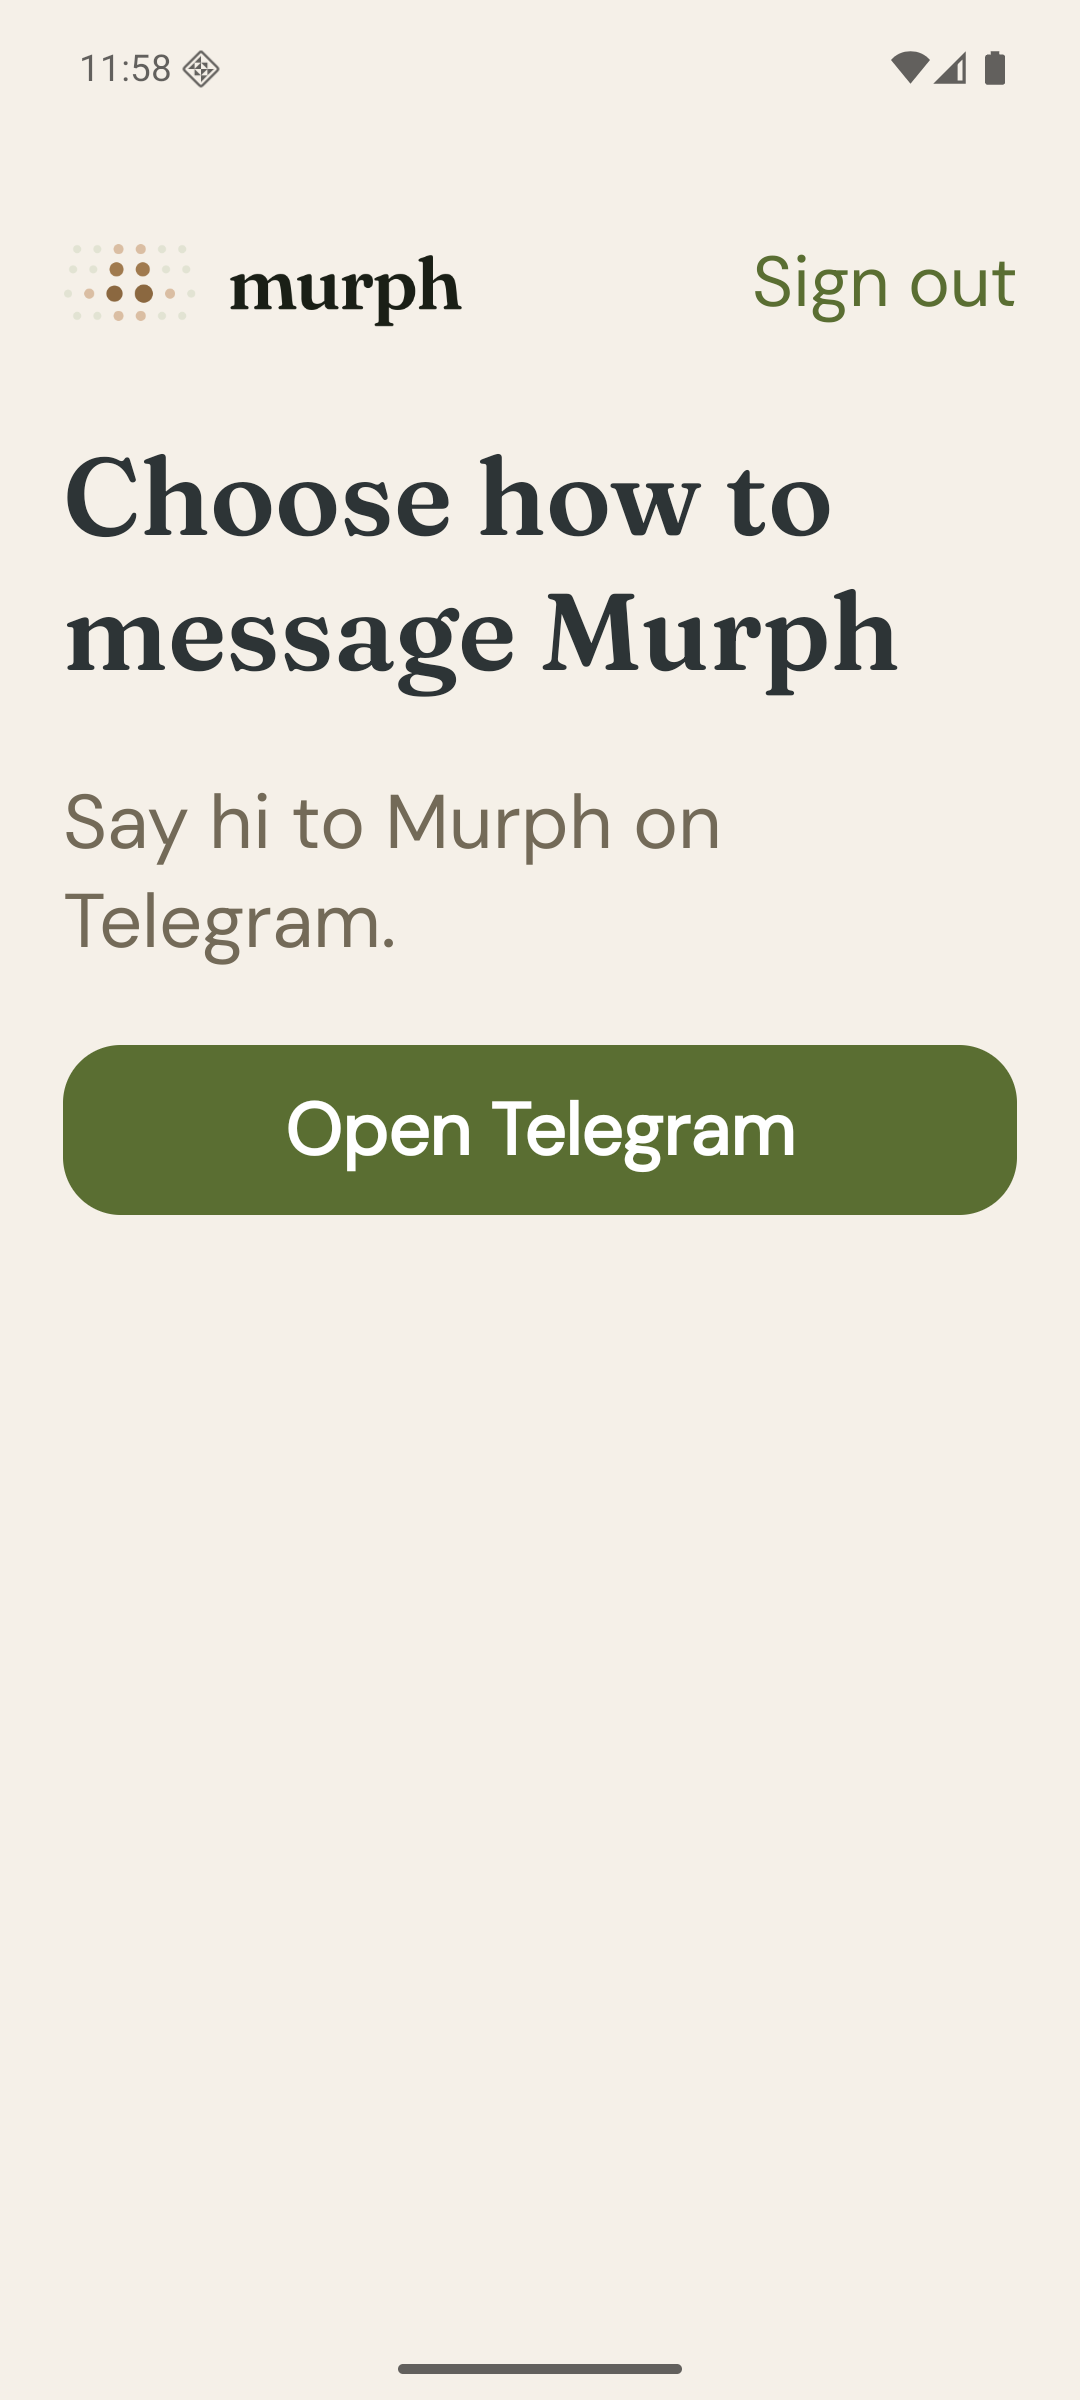
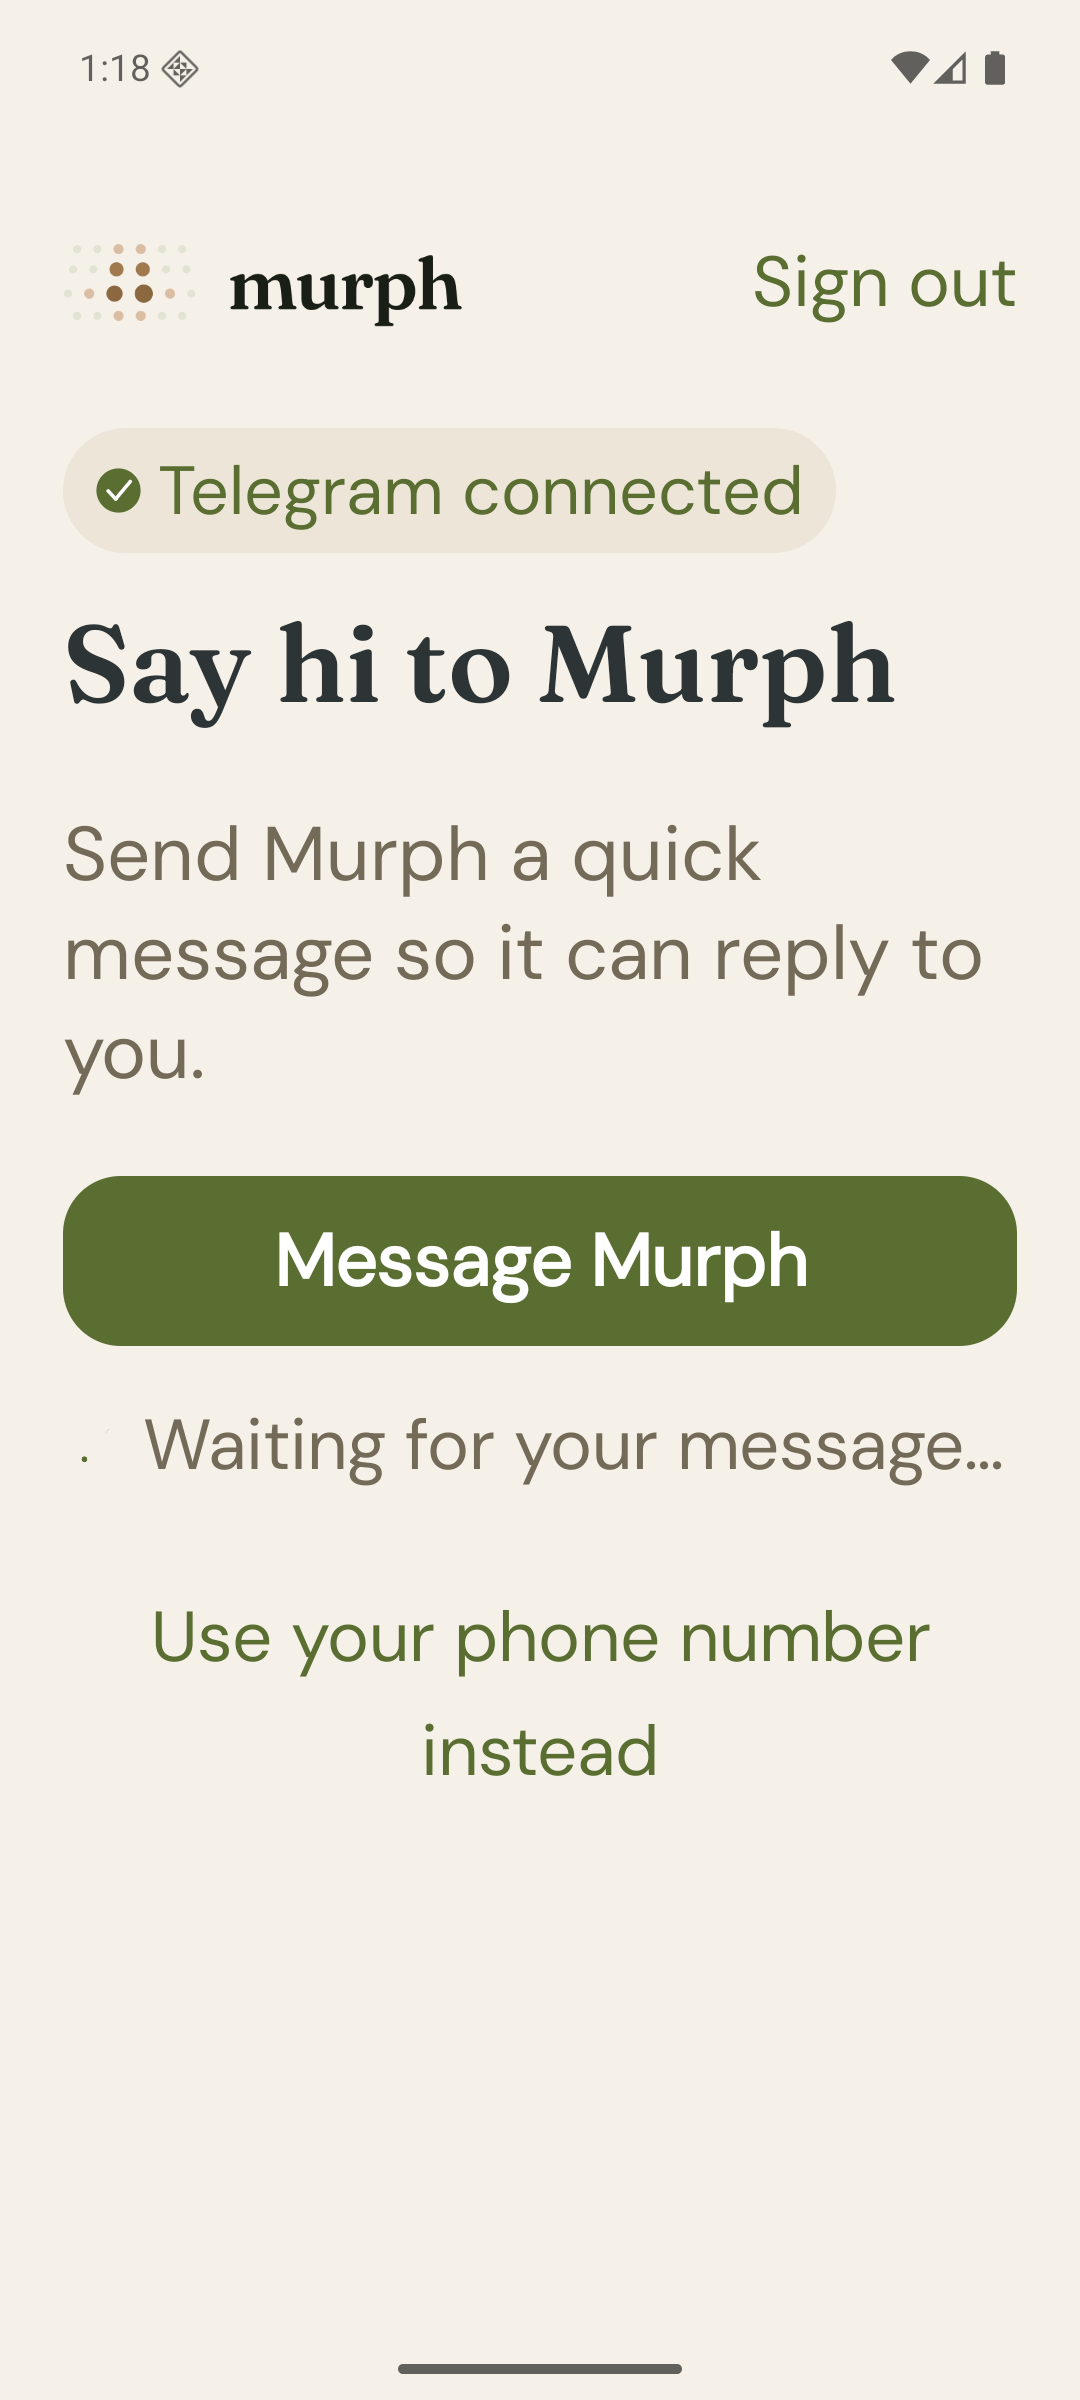
feat(onboarding): redesign the Telegram say-hi step
Show a "Telegram connected" badge, "Say hi to Murph", a primary
"Message Murph" that opens the bot chat, a "Waiting for your message…"
row and "Use your phone number instead", matching iOS.

While the step is resumed, AppSession probes only the onboarding
projection every four seconds (immediately on return) and re-enters
admission once awaiting-inbound clears. Probe failures stay silent, and
an awaiting-inbound refresh no longer shows the "still confirming" retry
copy. Link buttons use a rounded-rect shape and centered text so a label
that wraps at large text is not clipped by the pill shape.

diff --git a/app/src/main/java/ai/withmurph/companion/ui/onboarding/MessagingSetupScreen.kt b/app/src/main/java/ai/withmurph/companion/ui/onboarding/MessagingSetupScreen.kt
@@ -25,6 +25,8 @@ import androidx.compose.ui.focus.FocusRequester
 import androidx.compose.ui.text.input.KeyboardType
 import androidx.compose.ui.autofill.ContentType
 import ai.withmurph.companion.app.AppUiState
+import ai.withmurph.companion.ui.components.MurphIcon
+import ai.withmurph.companion.ui.components.MurphIconKind
 import ai.withmurph.companion.ui.components.MurphLinkButton
 import ai.withmurph.companion.ui.components.MurphLogo
 import ai.withmurph.companion.ui.components.MurphPrimaryButton
@@ -114,14 +116,18 @@ fun MessagingSetupScreen(
                 MurphLinkButton("Sign out", onSignOut)
             }
             if (link.stage != MessagingStage.Code) {
+                val sayHi = link.stage == MessagingStage.SayHi
+                Column(verticalArrangement = Arrangement.spacedBy(16.dp)) {
+                    if (sayHi) TelegramConnectedBadge()
+                    Text(
+                        if (sayHi) "Say hi to Murph" else "Choose how to message Murph",
+                        modifier = Modifier.semantics { heading() },
+                        style = MaterialTheme.typography.displayLarge.copy(fontSize = 34.sp, lineHeight = 42.sp),
+                        color = MurphColors.Slate,
+                    )
+                }
                 Text(
-                    "Choose how to message Murph",
-                    modifier = Modifier.semantics { heading() },
-                    style = MaterialTheme.typography.displayLarge.copy(fontSize = 34.sp, lineHeight = 42.sp),
-                    color = MurphColors.Slate,
-                )
-                Text(
-                    if (link.stage == MessagingStage.SayHi) "Say hi to Murph on Telegram."
+                    if (sayHi) "Send Murph a quick message so it can reply to you."
                     else "Message Murph from your phone.",
                     style = MaterialTheme.typography.bodyLarge.copy(fontSize = 17.sp, lineHeight = 22.sp),
                     color = MurphColors.SlateMuted,
@@ -165,10 +171,27 @@ fun MessagingSetupScreen(
                     MurphLinkButton("Use a different number", onChangeNumber, enabled = !busy, modifier = Modifier.align(Alignment.CenterHorizontally))
                 }
                 MessagingStage.SayHi -> {
-                    MurphPrimaryButton("Open Telegram", onTelegram, enabled = !busy)
-                    state.messagingSetupMessage?.let {
-                        Text(it, style = MaterialTheme.typography.bodySmall.copy(fontSize = 13.sp), color = MurphColors.SlateMuted)
+                    Column(
+                        modifier = Modifier.fillMaxWidth(),
+                        horizontalAlignment = Alignment.CenterHorizontally,
+                        verticalArrangement = Arrangement.spacedBy(20.dp),
+                    ) {
+                        MurphPrimaryButton("Message Murph", onTelegram, enabled = !busy)
+                        Row(
+                            modifier = Modifier.semantics(mergeDescendants = true) {},
+                            horizontalArrangement = Arrangement.spacedBy(10.dp),
+                            verticalAlignment = Alignment.CenterVertically,
+                        ) {
+                            CircularProgressIndicator(modifier = Modifier.size(16.dp), color = MurphColors.SageDark, strokeWidth = 2.dp)
+                            Text("Waiting for your message…", style = MaterialTheme.typography.bodyLarge.copy(fontSize = 15.sp),
+                                color = MurphColors.SlateMuted)
+                        }
+                        state.messagingSetupMessage?.let {
+                            Text(it, style = MaterialTheme.typography.bodySmall.copy(fontSize = 13.sp), color = MurphColors.SlateMuted)
+                        }
                     }
+                    MurphLinkButton("Use your phone number instead", onChangeNumber, enabled = !busy,
+                        modifier = Modifier.align(Alignment.CenterHorizontally))
                 }
                 MessagingStage.Connected -> {
                     Text("Account connected. Let’s continue setting up Murph.", color = MurphColors.SlateMuted)
@@ -209,6 +232,22 @@ fun MessagingSetupScreen(
                     modifier = Modifier.semantics { contentDescription = "Cancel Telegram login" })
             }
         }
+    }
+}
+
+@Composable
+private fun TelegramConnectedBadge() {
+    Row(
+        modifier = Modifier
+            .background(MurphColors.MutedSurface, RoundedCornerShape(50))
+            .padding(horizontal = 12.dp, vertical = 7.dp)
+            .semantics(mergeDescendants = true) {},
+        horizontalArrangement = Arrangement.spacedBy(6.dp),
+        verticalAlignment = Alignment.CenterVertically,
+    ) {
+        MurphIcon(MurphIconKind.CheckCircle, Modifier.size(18.dp))
+        Text("Telegram connected", style = MaterialTheme.typography.bodyMedium.copy(fontSize = 14.sp),
+            color = MurphColors.SageDark)
     }
 }
 

diff --git a/app/src/main/java/ai/withmurph/companion/app/AppSession.kt b/app/src/main/java/ai/withmurph/companion/app/AppSession.kt
@@ -4867,7 +4867,11 @@ class AppSession(
             _state.update {
                 it.copy(
                     isMessagingSetupRefreshing = false,
-                    messagingSetupMessage = if (it.phase == AppPhase.Ready && it.messagingSetupRequired) {
+                    // The say-hi step already explains a Telegram link that is
+                    // waiting for the member's first message.
+                    messagingSetupMessage = if (
+                        it.phase == AppPhase.Ready && it.messagingSetupRequired && !it.telegramAwaitingInbound
+                    ) {
                         MESSAGING_SETUP_PENDING_MESSAGE
                     } else {
                         null
@@ -4876,6 +4880,38 @@ class AppSession(
             }
         }
         return _state.value.phase == AppPhase.Ready && !_state.value.messagingSetupRequired
+    }
+
+    /**
+     * Cheap readiness probe for the Telegram say-hi step. Reads only the
+     * onboarding projection and re-enters admission once the member's first
+     * Telegram message has made them deliverable. Failures stay silent; the
+     * step keeps waiting.
+     */
+    suspend fun checkTelegramInbound(): Boolean {
+        val current = _state.value
+        val memberKey = currentMemberKey
+        if (
+            current.phase != AppPhase.Ready ||
+            !current.messagingSetupRequired ||
+            current.isMessagingSetupRefreshing ||
+            memberKey == null
+        ) return false
+        val epoch = sessionEpoch
+        val projection = try {
+            api.fetchInitialOnboarding(memberKey)
+        } catch (error: CancellationException) {
+            throw error
+        } catch (_: Exception) {
+            return false
+        }
+        if (
+            epoch != sessionEpoch ||
+            memberKey != currentMemberKey ||
+            projection.telegramAwaitingInbound ||
+            projection.messagingSetupRequired
+        ) return false
+        return refreshMessagingSetup()
     }
 
     private fun ownsInitialOnboardingWork(memberKey: String, epoch: Int): Boolean =

diff --git a/app/src/test/java/ai/withmurph/companion/app/AppSessionTest.kt b/app/src/test/java/ai/withmurph/companion/app/AppSessionTest.kt
@@ -1759,6 +1759,41 @@ class AppSessionTest {
     }
 
     @Test
+    fun telegramInboundProbeWaitsQuietlyThenEntersAdmission() = runTest {
+        val fixture = fixture()
+        fixture.api.initialOnboarding = completedInitialOnboarding().copy(telegramAwaitingInbound = true)
+        fixture.session.start()
+        val fetchesAfterStart = fixture.api.initialOnboardingFetches.size
+
+        assertFalse(fixture.session.checkTelegramInbound())
+
+        assertTrue(fixture.session.state.value.messagingSetupRequired)
+        assertTrue(fixture.session.state.value.telegramAwaitingInbound)
+        assertNull(fixture.session.state.value.messagingSetupMessage)
+        assertEquals(fetchesAfterStart + 1, fixture.api.initialOnboardingFetches.size)
+        assertEquals(0, fixture.health.identifyCalls)
+
+        fixture.api.initialOnboarding = completedInitialOnboarding()
+        assertTrue(fixture.session.checkTelegramInbound())
+
+        assertFalse(fixture.session.state.value.messagingSetupRequired)
+        assertFalse(fixture.session.state.value.telegramAwaitingInbound)
+        assertNull(fixture.session.state.value.messagingSetupMessage)
+    }
+
+    @Test
+    fun telegramAwaitingRefreshLeavesSayHiWithoutRetryMessage() = runTest {
+        val fixture = fixture()
+        fixture.api.initialOnboarding = completedInitialOnboarding().copy(telegramAwaitingInbound = true)
+        fixture.session.start()
+
+        assertFalse(fixture.session.refreshMessagingSetup())
+
+        assertTrue(fixture.session.state.value.telegramAwaitingInbound)
+        assertNull(fixture.session.state.value.messagingSetupMessage)
+    }
+
+    @Test
     fun messagingSetupRequirementHoldsMemberWithoutStartingHealth() = runTest {
         val fixture = fixture()
         fixture.api.initialOnboarding =

diff --git a/app/src/main/java/ai/withmurph/companion/MainActivity.kt b/app/src/main/java/ai/withmurph/companion/MainActivity.kt
@@ -113,6 +113,14 @@ class MainActivity : ComponentActivity() {
                 if (appState.phase == ai.withmurph.companion.app.AppPhase.NeedsLogin ||
                     appState.phase == ai.withmurph.companion.app.AppPhase.Ready && !appState.messagingSetupRequired) graph.messaging.reset()
             }
+            // Checks right away on return from Telegram, then keeps checking
+            // while the say-hi step is on screen.
+            LaunchedEffect(messagingState.stage) {
+                if (messagingState.stage != ai.withmurph.companion.auth.MessagingStage.SayHi) return@LaunchedEffect
+                lifecycle.repeatOnLifecycle(Lifecycle.State.RESUMED) {
+                    graph.messaging.awaitTelegramInbound { graph.session.checkTelegramInbound() }
+                }
+            }
             LaunchedEffect(appState.pendingHealthPermissionRequestId) {
                 val requestId = appState.pendingHealthPermissionRequestId ?: return@LaunchedEffect
                 lifecycle.withResumed {
@@ -414,9 +422,6 @@ class MainActivity : ComponentActivity() {
                 healthSyncNotificationRecoveryNeeded = false
             }
             graph.applicationScope.launch {
-                if (graph.messaging.state.value.stage == ai.withmurph.companion.auth.MessagingStage.SayHi) {
-                    graph.session.refreshMessagingSetup()
-                }
                 graph.session.didBecomeActive()
             }
         }

diff --git a/app/src/test/java/ai/withmurph/companion/auth/MessagingSetupCoordinatorTest.kt b/app/src/test/java/ai/withmurph/companion/auth/MessagingSetupCoordinatorTest.kt
@@ -51,6 +51,24 @@ class MessagingSetupCoordinatorTest {
         model.restoreAwaitingInbound(model.state.value.telegramUrl)
         assertEquals(1, api.starts)
     }
+    @Test fun sayHiKeepsCheckingUntilDeliverable() = runTest {
+        val model = MessagingSetupCoordinator(Auth(), Api())
+        model.restoreAwaitingInbound("https://t.me/synthetic_bot")
+        var checks = 0
+        model.awaitTelegramInbound(intervalMs = 1) { ++checks == 3 }
+        assertEquals(3, checks)
+    }
+    @Test fun sayHiStopsCheckingAfterSwitchingToPhone() = runTest {
+        val model = MessagingSetupCoordinator(Auth(), Api())
+        model.restoreAwaitingInbound("https://t.me/synthetic_bot")
+        var checks = 0
+        model.awaitTelegramInbound(intervalMs = 1) { checks++; model.changeNumber(); false }
+        assertEquals(1, checks)
+        assertEquals(MessagingStage.Phone, model.state.value.stage)
+        assertNull(model.state.value.telegramUrl)
+        model.awaitTelegramInbound(intervalMs = 1) { checks++; false }
+        assertEquals("The phone step never polls Telegram readiness", 1, checks)
+    }
     @Test fun cancelledAndUnavailableLoginStayInlineAndRetryable() = runTest {
         val api = Api(); val model = MessagingSetupCoordinator(Auth(), api)
         for (reason in listOf(MessagingLinkException.Reason.TelegramCancelled, MessagingLinkException.Reason.TelegramUnavailable)) {

diff --git a/app/src/main/java/ai/withmurph/companion/auth/MessagingSetupCoordinator.kt b/app/src/main/java/ai/withmurph/companion/auth/MessagingSetupCoordinator.kt
@@ -3,6 +3,7 @@ package ai.withmurph.companion.auth
 import ai.withmurph.companion.core.AuthProvider
 import ai.withmurph.companion.core.AuthSessionState
 import kotlinx.coroutines.CancellationException
+import kotlinx.coroutines.delay
 import kotlinx.coroutines.flow.MutableStateFlow
 import kotlinx.coroutines.flow.asStateFlow
 
@@ -113,6 +114,14 @@ class MessagingSetupCoordinator(private val auth: AuthProvider, private val api:
         revision++
         mutableState.value = state.value.copy(busy = false, telegramLogin = false,
             error = MessagingLinkException.Reason.TelegramCancelled.message)
+    }
+
+    /** Re-checks readiness while the say-hi step is showing; returns once the member is deliverable or leaves the step. */
+    suspend fun awaitTelegramInbound(intervalMs: Long = 4_000, check: suspend () -> Boolean) {
+        while (state.value.stage == MessagingStage.SayHi) {
+            if (check()) return
+            delay(intervalMs)
+        }
     }
 
     fun restoreAwaitingInbound(url: String?) {

diff --git a/app/src/main/java/ai/withmurph/companion/ui/components/MurphComponents.kt b/app/src/main/java/ai/withmurph/companion/ui/components/MurphComponents.kt
@@ -64,6 +64,7 @@ import androidx.compose.ui.semantics.Role
 import androidx.compose.ui.semantics.contentDescription
 import androidx.compose.ui.semantics.contentType
 import androidx.compose.ui.semantics.semantics
+import androidx.compose.ui.text.style.TextAlign
 import androidx.compose.ui.unit.dp
 import androidx.compose.ui.unit.sp
 
@@ -184,6 +185,8 @@ fun MurphLinkButton(
         onClick = onClick,
         enabled = enabled,
         modifier = modifier.heightIn(min = 44.dp),
+        // A pill shape clips the ends of a label that wraps at large text.
+        shape = RoundedCornerShape(8.dp),
         contentPadding = PaddingValues(horizontal = 0.dp, vertical = 10.dp),
         colors = ButtonDefaults.textButtonColors(
             contentColor = MurphColors.SageDark,
@@ -193,6 +196,7 @@ fun MurphLinkButton(
         Text(
             text = text,
             style = MaterialTheme.typography.bodyLarge.copy(fontSize = 15.sp),
+            textAlign = TextAlign.Center,
         )
     }
 }

diff --git a/app/src/androidTestSynthetic/java/ai/withmurph/companion/visual/ScreenshotScenarioSmokeTest.kt b/app/src/androidTestSynthetic/java/ai/withmurph/companion/visual/ScreenshotScenarioSmokeTest.kt
@@ -63,7 +63,7 @@ class ScreenshotScenarioSmokeTest {
                         compose.onNodeWithContentDescription("6-digit verification code").performScrollTo().assertFullyContained()
                         listOf("Use a different number")
                     }
-                    "say-hi" -> listOf("Open Telegram")
+                    "say-hi" -> listOf("Message Murph", "Use your phone number instead")
                     "waiting" -> emptyList()
                     else -> {
                         compose.onNodeWithContentDescription("Country or region", substring = true)

diff --git a/docs/native-messaging-sdk-plan.md b/docs/native-messaging-sdk-plan.md
@@ -8,6 +8,12 @@ Use the official SDK unmodified. Default phone and SMS-code controls match iOS;
 Telegram invokes SDK login, then either continues or shows canonical say-hi.
 Remove the old recipient-proof/custom-scheme flow completely.
 
+Say-hi matches iOS: a "Telegram connected" badge, "Say hi to Murph", a primary
+"Message Murph" that opens the bot chat, a "Waiting for your message…" row and
+"Use your phone number instead". While the step is resumed, AppSession reads
+only the onboarding projection every four seconds (immediately on return) and
+re-enters admission once awaiting-inbound clears. Probe failures stay silent.
+
 The SDK source and tests are implemented. The human authorized GitHub's built-in
 workflow token with packages:read and contents:read, using github.actor as the
 Maven username. Local use requires the refreshed gh token to show read:packages;
